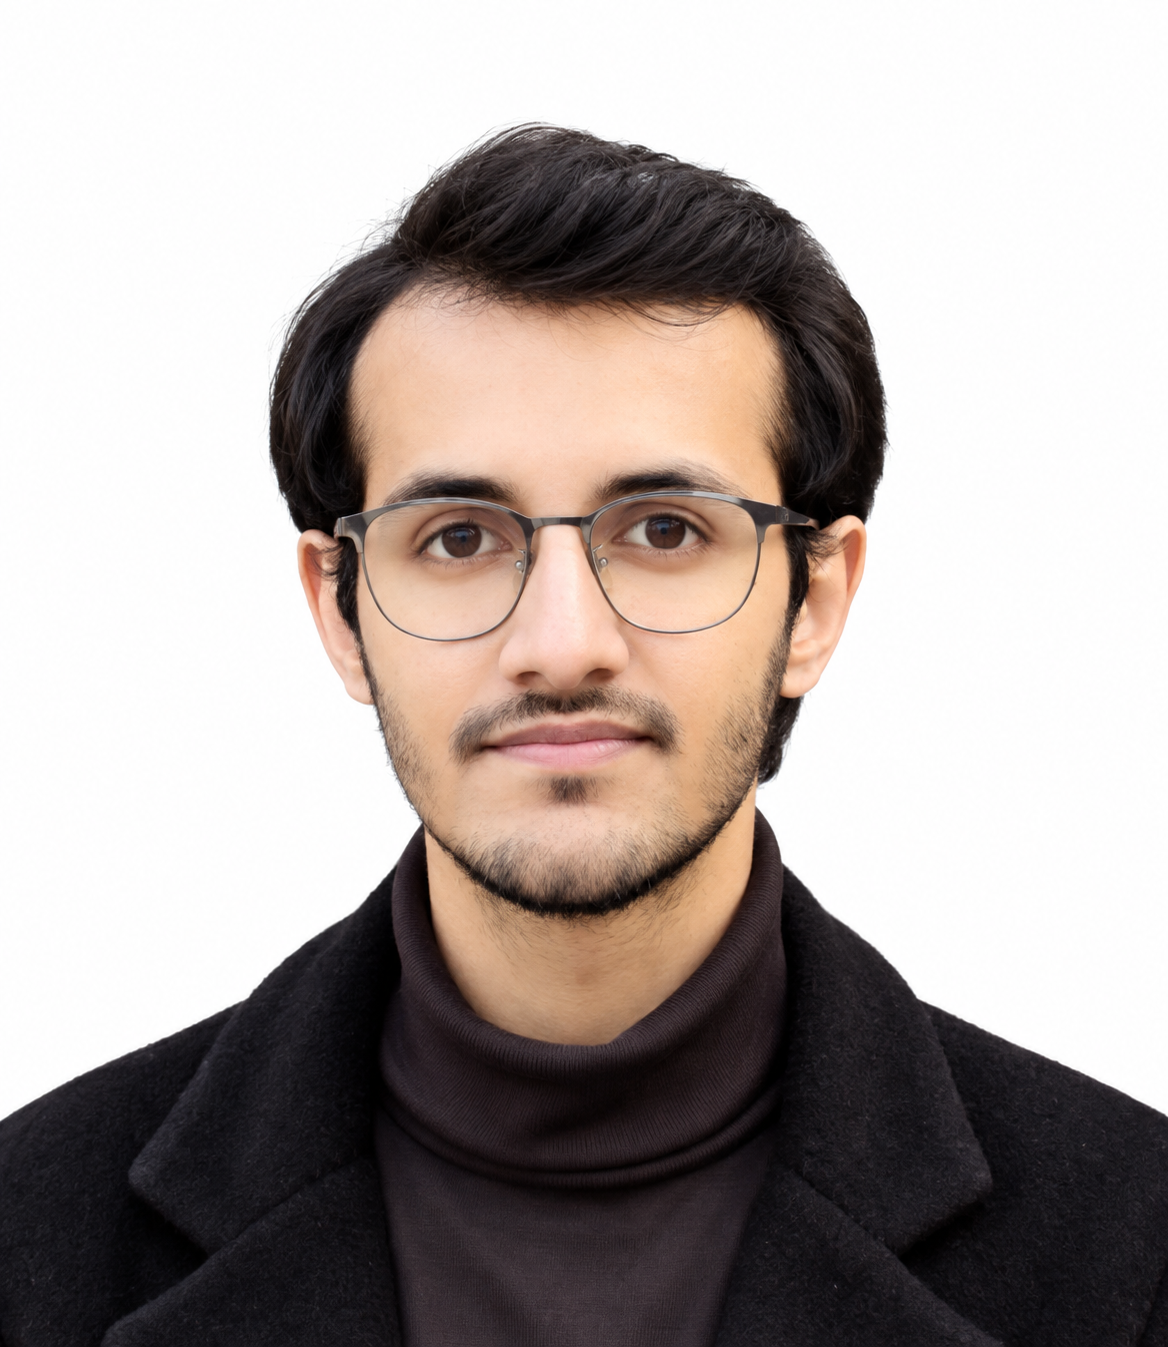
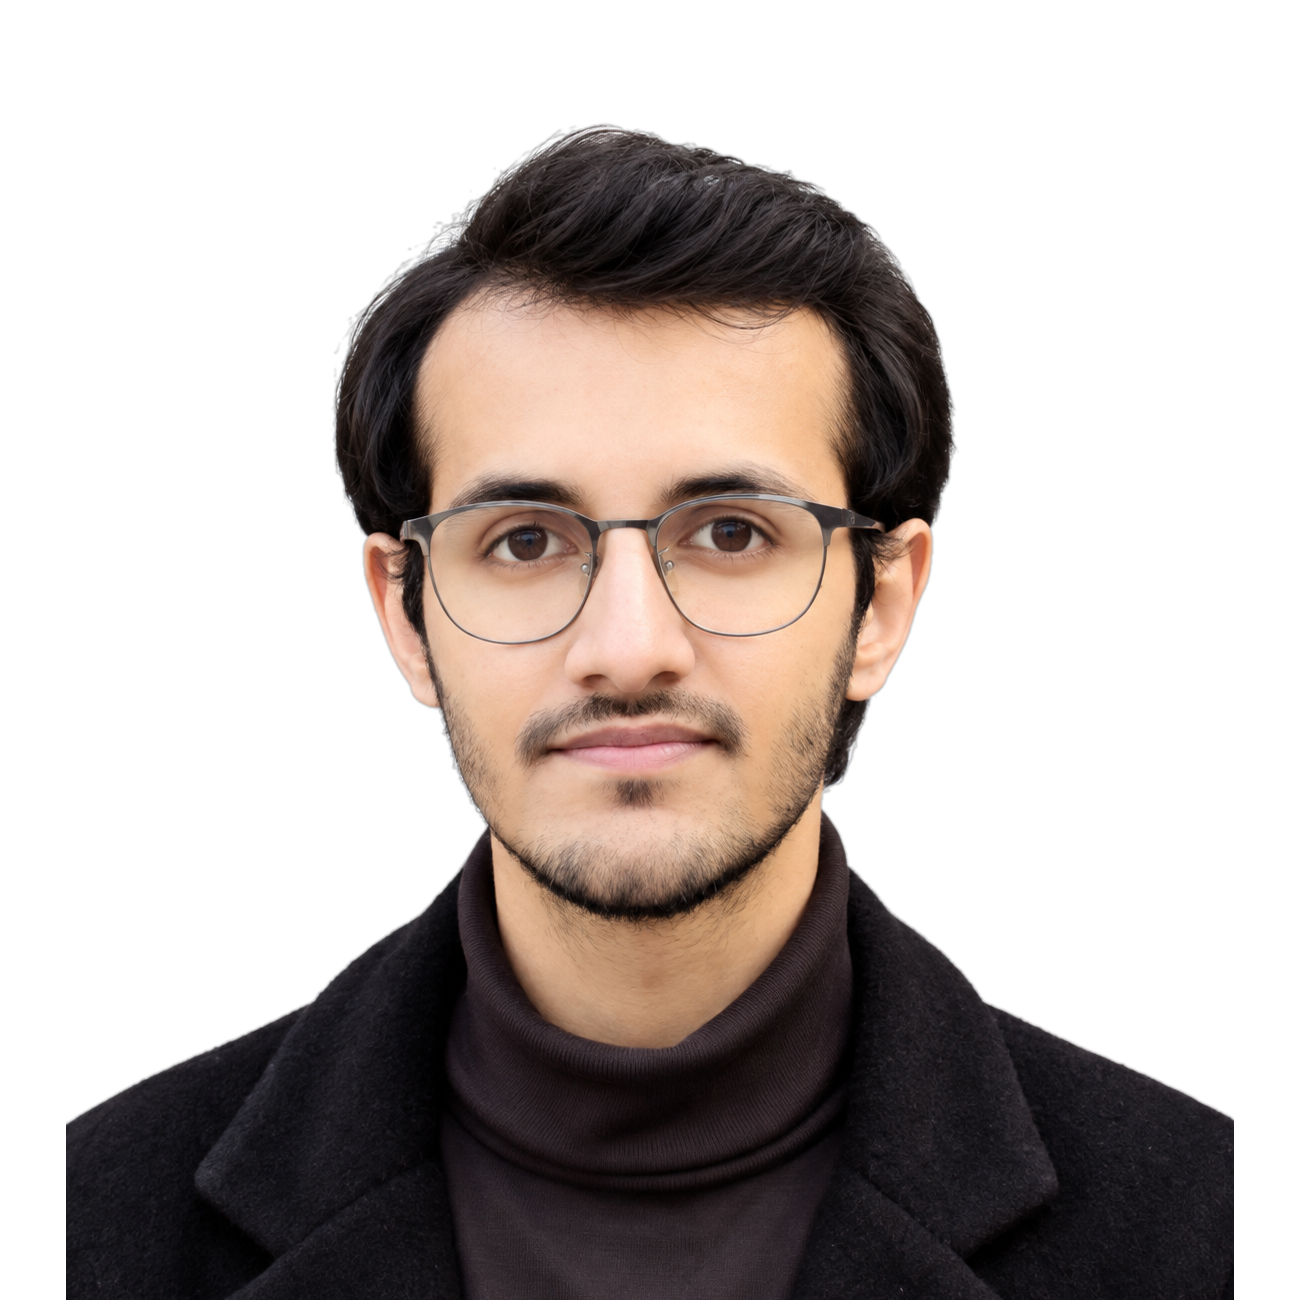
Img updated

diff --git a/src/routes/about.tsx b/src/routes/about.tsx
@@ -38,11 +38,11 @@ function About() {
       <Section eyebrow="Know about me" title="A developer who likes" italic="the whole stack">
         <div className="grid gap-8 md:grid-cols-[0.8fr_1.2fr]">
           <div className="panel overflow-hidden">
-            <div className="relative aspect-[4/3] max-h-80 w-full overflow-hidden bg-surface-2">
+            <div className="relative aspect-square max-h-96 w-full overflow-hidden bg-gradient-to-b from-surface-2/80 to-surface">
               <img
                 src={aleem}
                 alt="Muhammad Aleem"
-                className="h-full w-full object-cover object-top transition-transform duration-500 hover:scale-105"
+                className="h-full w-full object-cover object-center transition-transform duration-500 hover:scale-105"
               />
             </div>
             <div className="p-5">

diff --git a/src/components/site/Portrait3D.tsx b/src/components/site/Portrait3D.tsx
@@ -138,7 +138,7 @@ export function Portrait3D({ logo = false }: { logo?: boolean }) {
               <img
                 src={aleemPic}
                 alt="Portrait of Muhammad Aleem"
-                className="absolute inset-0 h-full w-full object-cover"
+                className="absolute inset-0 h-full w-full object-cover object-center"
                 style={{
                   maskImage: "radial-gradient(78% 78% at 50% 42%, #000 60%, transparent 100%)",
                 }}
@@ -239,7 +239,7 @@ export function Portrait3D({ logo = false }: { logo?: boolean }) {
               <img
                 src={aleemPic}
                 alt="Portrait of Muhammad Aleem"
-                className="h-full w-full object-cover"
+                className="h-full w-full object-cover object-center"
               />
             </div>
           </div>

diff --git a/src/components/three/HeroOrb.tsx b/src/components/three/HeroOrb.tsx
@@ -36,10 +36,15 @@ function PhotoMedallion({ perf }: { perf: PerfSettings }) {
         <cylinderGeometry args={[1.42, 1.42, 0.28, seg]} />
         <meshStandardMaterial color="#0b1a29" metalness={0.9} roughness={0.28} />
       </mesh>
+      {/* dark backing disc giving contrast behind transparent portrait */}
+      <mesh position={[0, 0, 0.005]}>
+        <circleGeometry args={[1.36, seg]} />
+        <meshBasicMaterial color="#0a121e" />
+      </mesh>
       {/* portrait face */}
       <mesh position={[0, 0, 0.01]}>
         <circleGeometry args={[1.36, seg]} />
-        <meshBasicMaterial map={texture} toneMapped={false} />
+        <meshBasicMaterial map={texture} toneMapped={false} transparent />
       </mesh>
       {/* polished rim */}
       <Torus args={[1.42, 0.05, tube, seg]}>

diff --git a/src/routes/links.tsx b/src/routes/links.tsx
@@ -62,11 +62,11 @@ function Links() {
             <img
               src={aleemPic}
               alt="Muhammad Aleem"
-              className="mx-auto size-32 rounded-full border border-border object-cover"
+              className="mx-auto size-32 rounded-full border border-border object-cover object-center bg-surface-2"
             />
             <h2 className="mt-4 text-2xl">{profile.name}</h2>
             <div className="mt-2 flex justify-center gap-2">
-              {["Developer", "Student", "TA"].map((t) => (
+              {["Engineer", "Lab Instructor", "Developer"].map((t) => (
                 <span
                   key={t}
                   className="rounded-full border border-border px-3 py-1 font-mono text-[0.65rem] text-muted-foreground"
